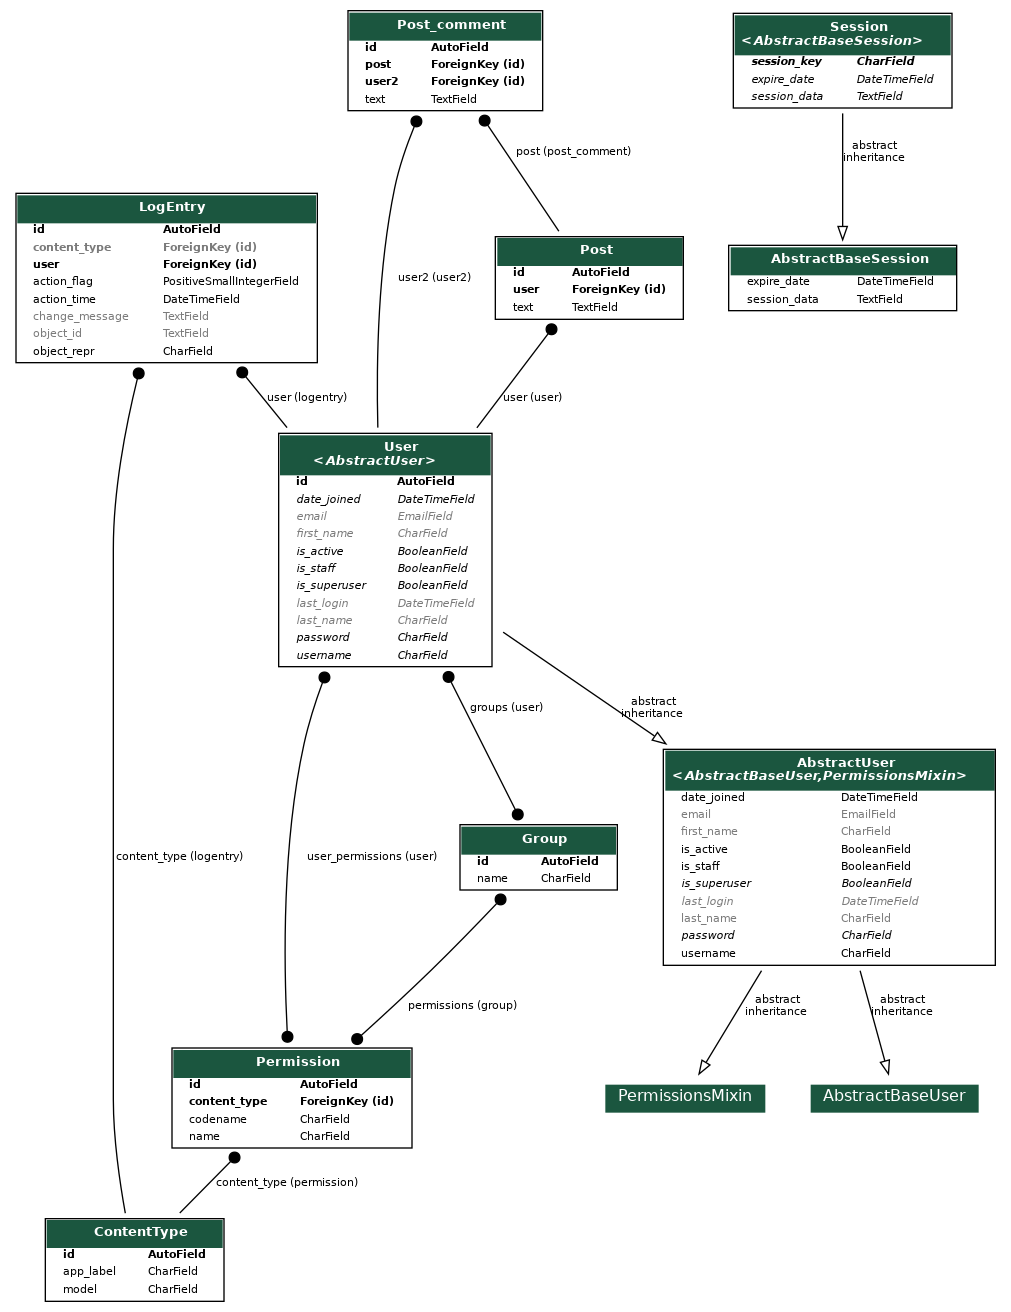
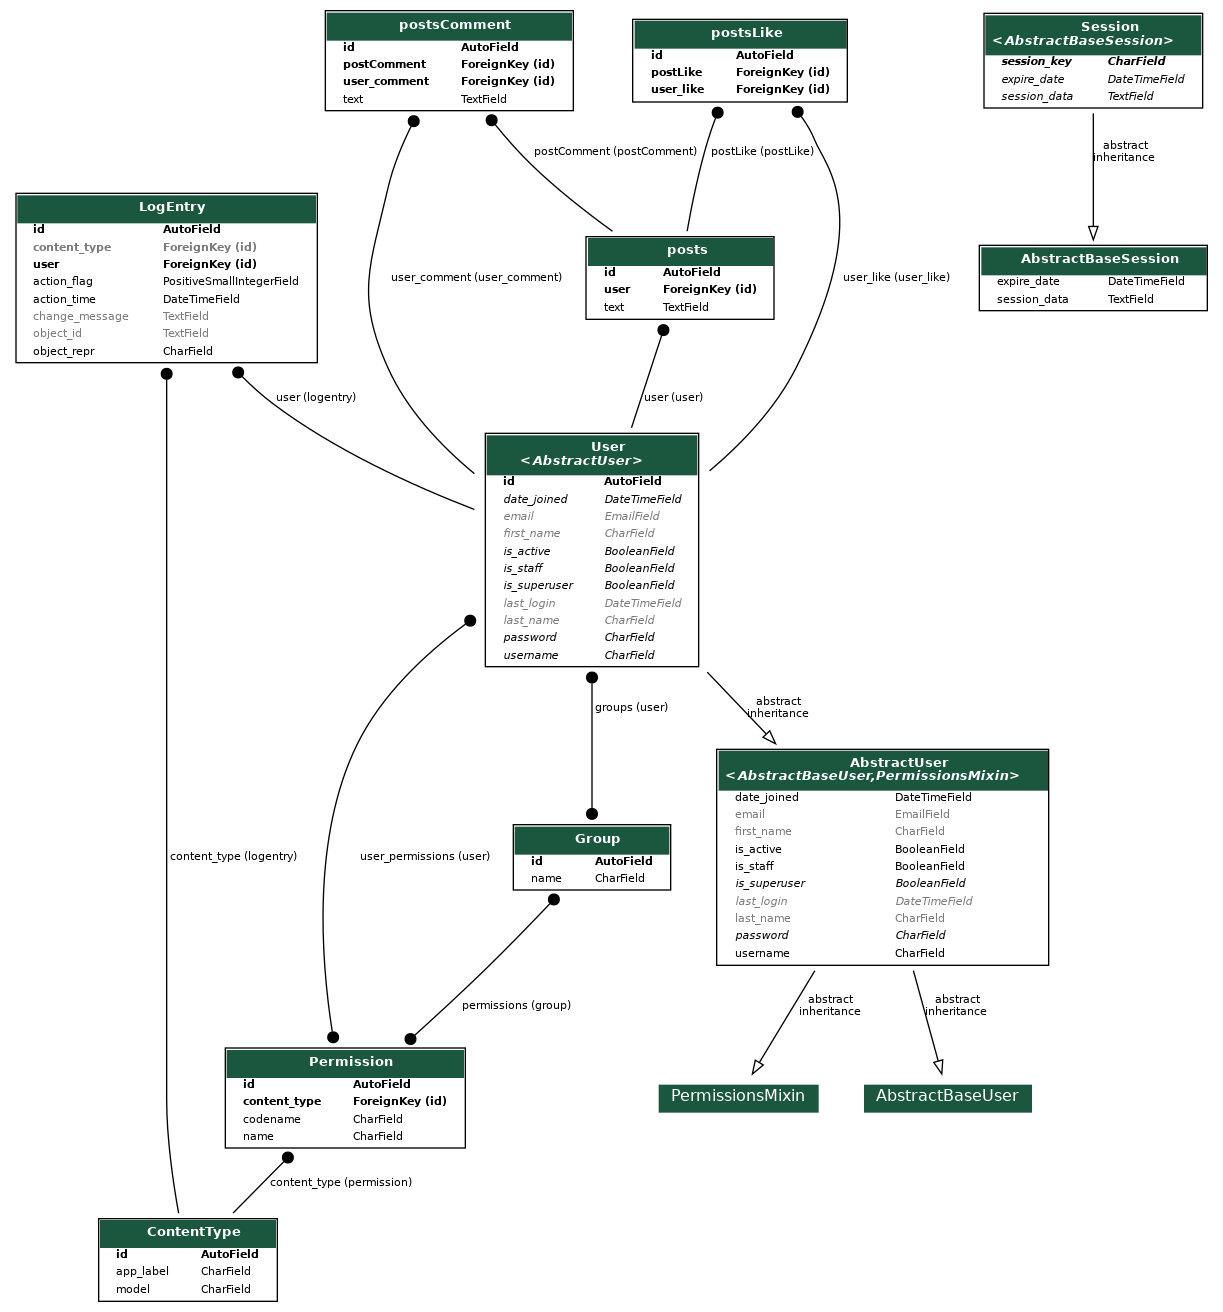
set up posts likes

diff --git a/post/migrations/0006_auto_20210916_1021.py b/post/migrations/0006_auto_20210916_1021.py
@@ -1,0 +1,56 @@
+# Generated by Django 3.2.7 on 2021-09-16 10:21
+
+from django.conf import settings
+from django.db import migrations, models
+import django.db.models.deletion
+
+
+class Migration(migrations.Migration):
+
+    dependencies = [
+        migrations.swappable_dependency(settings.AUTH_USER_MODEL),
+        ('post', '0005_post_comment_user2'),
+    ]
+
+    operations = [
+        migrations.CreateModel(
+            name='postsComment',
+            fields=[
+                ('id', models.AutoField(primary_key=True, serialize=False)),
+                ('text', models.TextField(db_index=True, max_length=255, null=True)),
+            ],
+        ),
+        migrations.CreateModel(
+            name='postsLike',
+            fields=[
+                ('id', models.AutoField(primary_key=True, serialize=False)),
+            ],
+        ),
+        migrations.RenameModel(
+            old_name='Post',
+            new_name='posts',
+        ),
+        migrations.DeleteModel(
+            name='Post_comment',
+        ),
+        migrations.AddField(
+            model_name='postslike',
+            name='postLike',
+            field=models.ForeignKey(on_delete=django.db.models.deletion.CASCADE, related_name='postLike', to='post.posts'),
+        ),
+        migrations.AddField(
+            model_name='postslike',
+            name='user_like',
+            field=models.ForeignKey(null=True, on_delete=django.db.models.deletion.CASCADE, related_name='user_like', to=settings.AUTH_USER_MODEL),
+        ),
+        migrations.AddField(
+            model_name='postscomment',
+            name='postComment',
+            field=models.ForeignKey(on_delete=django.db.models.deletion.CASCADE, related_name='postComment', to='post.posts'),
+        ),
+        migrations.AddField(
+            model_name='postscomment',
+            name='user_comment',
+            field=models.ForeignKey(null=True, on_delete=django.db.models.deletion.CASCADE, related_name='user_comment', to=settings.AUTH_USER_MODEL),
+        ),
+    ]

diff --git a/post/models.py b/post/models.py
@@ -2,7 +2,7 @@ from django.db import models
 from django.contrib.auth.models import User
 
 
-class Post(models.Model):
+class posts(models.Model):
     id = models.AutoField(primary_key=True)
     text = models.TextField(max_length=255, db_index=True, null=True)
     # slug = models.SlugField(max_length=255, unique=True, null=True)
@@ -10,19 +10,24 @@ class Post(models.Model):
     # img = models.ImageField(upload_to='images_uploaded',null=True, required = False)
     # video = models.FileField(upload_to='videos_uploaded',null=True, validators=[FileExtensionValidator(allowed_extensions=['MOV','avi','mp4','webm','mkv'])])
     # date_uploaded = models.DateTimeField(default=timezone.now)
-    # user = models.ForeignKey(User,on_delete= models.CASCADE)
 
     def __str__(self):
         return self.text
 
-class Post_comment(models.Model):
+class postsComment(models.Model):
     id = models.AutoField(primary_key=True)
     text = models.TextField(max_length=255, db_index=True, null=True)
-    post = models.ForeignKey(Post, related_name='post_comment', on_delete=models.CASCADE)
-    user2 = models.ForeignKey(User, related_name='user2', on_delete=models.CASCADE, null=True)
-
-
-
+    postComment = models.ForeignKey(posts, related_name='postComment', on_delete=models.CASCADE)
+    user_comment = models.ForeignKey(User, related_name='user_comment', on_delete=models.CASCADE, null=True)
 
     def __str__(self):
         return self.text
+
+
+class postsLike(models.Model):
+    id = models.AutoField(primary_key=True)
+    postLike = models.ForeignKey(posts, related_name='postLike', on_delete=models.CASCADE)
+    user_like = models.ForeignKey(User, related_name='user_like', on_delete=models.CASCADE, null=True)
+
+    def __str__(self):
+        return self.postsLike

diff --git a/post/serializers.py b/post/serializers.py
@@ -1,17 +1,25 @@
 from rest_framework import serializers
-from .models import Post, Post_comment
+from .models import posts, postsComment, postsLike
 
 
-class postSerializer(serializers.ModelSerializer):
+class postsSerializer(serializers.ModelSerializer):
     user = serializers.CharField(source="user.username", read_only=True)
 
     class Meta:
-        model = Post
+        model = posts
         fields = ('__all__')
 
-class post_commentSerializer(serializers.ModelSerializer):
-    user2 = serializers.CharField(source="user.username", read_only=True)
+class postsCommentSerializer(serializers.ModelSerializer):
+    user_comment = serializers.CharField(source="user.username", read_only=True)
 
     class Meta:
-        model = Post_comment
+        model = postsComment
+        fields = ('__all__')
+
+
+class postsLikeSerializer(serializers.ModelSerializer):
+    user_like = serializers.CharField(source="user.username", read_only=True)
+
+    class Meta:
+        model = postsLike
         fields = ('__all__')

diff --git a/post/views.py b/post/views.py
@@ -1,13 +1,17 @@
 from django.shortcuts import render
 from rest_framework import viewsets
-from .serializers import postSerializer,post_commentSerializer
-from .models import Post, Post_comment
+from .serializers import postsSerializer, postsCommentSerializer, postsLikeSerializer
+from .models import posts, postsComment, postsLike
 
 
-class PostViewsets(viewsets.ModelViewSet):
-    serializer_class = postSerializer
-    queryset = Post.objects.all()
+class postsViewsets(viewsets.ModelViewSet):
+    serializer_class = postsSerializer
+    queryset = posts.objects.all()
 
-class Post_commentViewsets(viewsets.ModelViewSet):
-    serializer_class = post_commentSerializer
-    queryset = Post_comment.objects.all()
+class postsCommentViewsets(viewsets.ModelViewSet):
+    serializer_class = postsCommentSerializer
+    queryset = postsComment.objects.all()
+
+class postsLikeViewsets(viewsets.ModelViewSet):
+    serializer_class = postsLikeSerializer
+    queryset = postsLike.objects.all()

diff --git a/social_media/urls.py b/social_media/urls.py
@@ -18,7 +18,7 @@ from django.urls import path
 from rest_framework import routers
 from django.conf.urls import include
 from user import views as user_views
-from post.views import PostViewsets, Post_commentViewsets
+from post.views import postsViewsets, postsCommentViewsets, postsLikeViewsets
 from rest_framework_simplejwt.views import (
     TokenObtainPairView,
     TokenRefreshView,
@@ -26,8 +26,9 @@ from rest_framework_simplejwt.views import (
 
 
 router = routers.DefaultRouter()
-router.register(r'post', PostViewsets, 'post')
-router.register(r'post_comment', Post_commentViewsets, 'post_comment')
+router.register(r'posts', postsViewsets, 'posts')
+router.register(r'postsComment', postsCommentViewsets, 'postsComment')
+router.register(r'postsLike', postsLikeViewsets, 'postsLike')
 
 
 

diff --git a/post/admin.py b/post/admin.py
@@ -1,5 +1,7 @@
 from django.contrib import admin
-from .models import Post, Post_comment
+from .models import posts, postsComment, postsLike
 
-admin.site.register(Post)
-admin.site.register(Post_comment)
+admin.site.register(posts)
+admin.site.register(postsComment)
+admin.site.register(postsLike)
+

diff --git a/social_media/settings.py b/social_media/settings.py
@@ -40,6 +40,7 @@ INSTALLED_APPS = [
     'django_extensions',
     'rest_framework',
     'post',
+    'user',
 ]
 
 MIDDLEWARE = [
